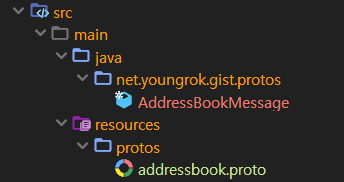
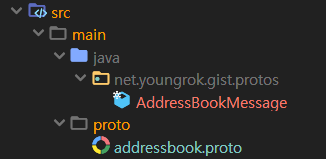
grpc

Changed region(s): [[0.0307, 0.0, 0.8896, 0.9811]]

diff --git a/grpc_protocol_buffers.md b/grpc_protocol_buffers.md
@@ -109,11 +109,11 @@ $ protoc -I=$SRC_DIR --java_out=$DST_DIR $SRC_DIR/addressbook.proto
 - `$SRC_DIR/addressbook.proto` 컴파일할
 
 실행 예)
-Java 프로젝트를 생성하고 resource/protos 디렉토리에 위 .proto 파일을 위치 시킨후 컴파일 해보자. protoc는 resource/protos 즉 .proto 파일이 저장된 디렉토리에서 실행했다
+Java 프로젝트를 생성하고 src/main/proto 디렉토리에 위 .proto 파일을 저장한후 컴파일 해보자. 명령어 실행위치는 프로젝트 홈디렉토리이다.
 
 실행한 명령어
 ```bash
-$ protoc -I=. --java_out=../../java ./addressbook.proto
+$ protoc -I=src/main/proto --java_out=src/main/java addressbook.proto
 ```
 결과
 
@@ -135,12 +135,13 @@ person.proto에 정의된 대로 net.youngrok.gist.protos 패키지에 AddressBo
 
 ## 사용
 
-백문이 불여일견. 코더는 코드로 말한다.
+백문이 불여일견. 코더는 코드로 말한다. 다음 세개의 예를 통해 사용법을 간단히 보자.
 
 - `writeMessage()` rock, kai 두 Person이 포함되어 있는 AddressBook 메세지를 파일에 저장
 - `readMessage()` 파일에 저장된 AddressBook을 읽어서 화면에 출력. 기본제공되는 toString() 사용
 - `loopAddressBook()` 실제 AddressBook 메세지를 사용하는 예제
 
+### 메세지 작성
 
 ```java
 private static final String SERIALIZED_ADDRESS_BOOK = "addressbook.message";
@@ -165,6 +166,7 @@ public void writeMessage() {
 
 ![](resources/grpc/serialized_addressbook.png)
 
+### 메세지 읽기
 파일에서 읽은 후 deserialize (parseFrom)을 거쳐서 제공되는 toString() 메소드로 화면에 출력하는 코드이다. AddressBook 객체를 생성해내는 것은 한줄이면 된다. (물론 exception 처리코드는 추가되야 한다.)
 
 ```java
@@ -177,9 +179,10 @@ public void readMessage() {
     }
 }
 ```
-출력 결과
 
-```json
+<details><summary>출력 결과(클릭)</summary>
+
+```
 people {
   name: "rock"
   id: 32
@@ -202,6 +205,9 @@ people {
   }
 }
 ```
+</details>
+
+### 실제 AddressBook을 navigate하는 코드
 
 ```java
 @Test
@@ -234,15 +240,40 @@ public void loopAddressBook() {
 }
 
 ```
+<details><summary>출력 결과</summary>
 
+```
+Person ID: 32
+  Name: rock
+  E-mail address: rock@nroll.com
+  Mobile phone #: 010-1024-2048
+  Home phone #: 02-3273-8783
+Person ID: 33
+  Name: kai
+  E-mail address: kai@database.org
+  Mobile phone #: 010-1677-7216
+```
+</details>
 
-
+toString으로 출력했을때와의 차이가 보이는가? 메세지 작성시 02-3273-8783의 경우 전화번호 타입(MOBILE, HOME, WORK)를 선택하지 않았고 toString() 출력했을때는 타입이 보이지 않았다.
+```
+  phones {
+    number: "02-3273-8783"
+  }
+```
+하지만 .proto에서 PhoneNumber 정의시 PhoneType 디폴트값을 HOME으로 지정했기 때문에 02-3273-8783의 phoneNumber.getType()은 HOME을 리턴한다.
+```
+message PhoneNumber {
+    required string number = 1;
+    optional PhoneType type = 2 [default = HOME];
+}
+```    
 
 ## 좀 더 편하게 사용 (Maven Plugin)
 
-protoc를 직접 사용해서 컴파일할 수도 있겠지만 좀더 편하게 maven의 generate-sources 단계에서 클래스를 생성하도록 설정해보자. Maven 플러그인을 통해서 할 수 있는데 두가지 방법이 대표적이지 않을까 한다.
+protoc를 직접 사용해서 컴파일할 수도 있겠지만 좀더 편하게 maven의 generate-sources 단계에서 클래스를 생성하도록 설정해보자. Maven 플러그인을 통해서 할 수 있는데 maven-antrun-plugin과 maven두가지 방법이 대표적이지 않을까 한다.
 
-### 방법1 maven-ant-plugin
+### 방법1 maven-antrun-plugin
 
 
 
@@ -250,14 +281,11 @@ protoc를 직접 사용해서 컴파일할 수도 있겠지만 좀더 편하게 
 
 
 
-
-
-
 # 타 IDL과의 비교
 
 ## JSON / XML
 
-Protobuf 홈페이지는 물론 관련한 많은 문서들이 json/xml과 protobuf를 비교하여 장점을 주창하고 있다. 사실 이바닥에서 장점이라는 것 자체가 원래 이론적이거나 특정 분야에 한정하여 강점을 가지는 경우가 많다는 것 정도는 다들 알고 있으니 이글에서도 그냥 장점 위주로 적겠다. 무책임한가? 컨셉이다.
+Protobuf 홈페이지는 물론 관련한 많은 문서들이 json/xml과 protobuf를 비교하여 장점을 주창하고 있다. 사실 이바닥에서 장점이라는 것 자체가 원래 이론적이거나 특정 분야에 한정하여 강점을 가지는 경우가 많다는 것 정도는 다들 알고 있으니 이글에서도 그냥 장점 위주로 적겠다. ~~무책임한가? 컨셉이다.~~
 
 |  | Json | ProtoBuf |
 |---|---|---|
@@ -283,7 +311,7 @@ Protobuf 홈페이지는 물론 관련한 많은 문서들이 json/xml과 protob
 
 참고문서: http://sjava.net/2012/12/%EB%B2%88%EC%97%AD-%EC%97%90%EC%9D%B4%EB%B8%8C%EB%A1%9Cavro-%ED%94%84%EB%A1%9C%ED%86%A0%EC%BD%9C-%EB%B2%84%ED%8D%BCprotocol-buffers-%EC%93%B0%EB%A6%AC%ED%94%84%ED%8A%B8thrift%EC%9D%98-%EC%8A%A4/
 
-이 문서는 2012년에 작성된 것이기 때문에 protobuf가 더 발전했는지는 모르겠다. 특히 버전3에서 어떻게 변했는지는 알아볼 필요는 있겠다. ``__하지만 이미 하둡쪽은 avro 세상이니 둘중 하나만 익히겠다고 하면 avro를 권한다.__``
+이 문서는 2012년에 작성된 것이기 때문에 protobuf가 더 발전했는지는 모르겠다. 특히 버전3에서 어떻게 변했는지는 알아볼 필요는 있겠다. ``__하지만 이미 하둡쪽은 avro 세상이니 protobuf와 avro둘중 하나만 익히겠다고 하면 avro를 권한다.__``
 
 ## Thrift
 
